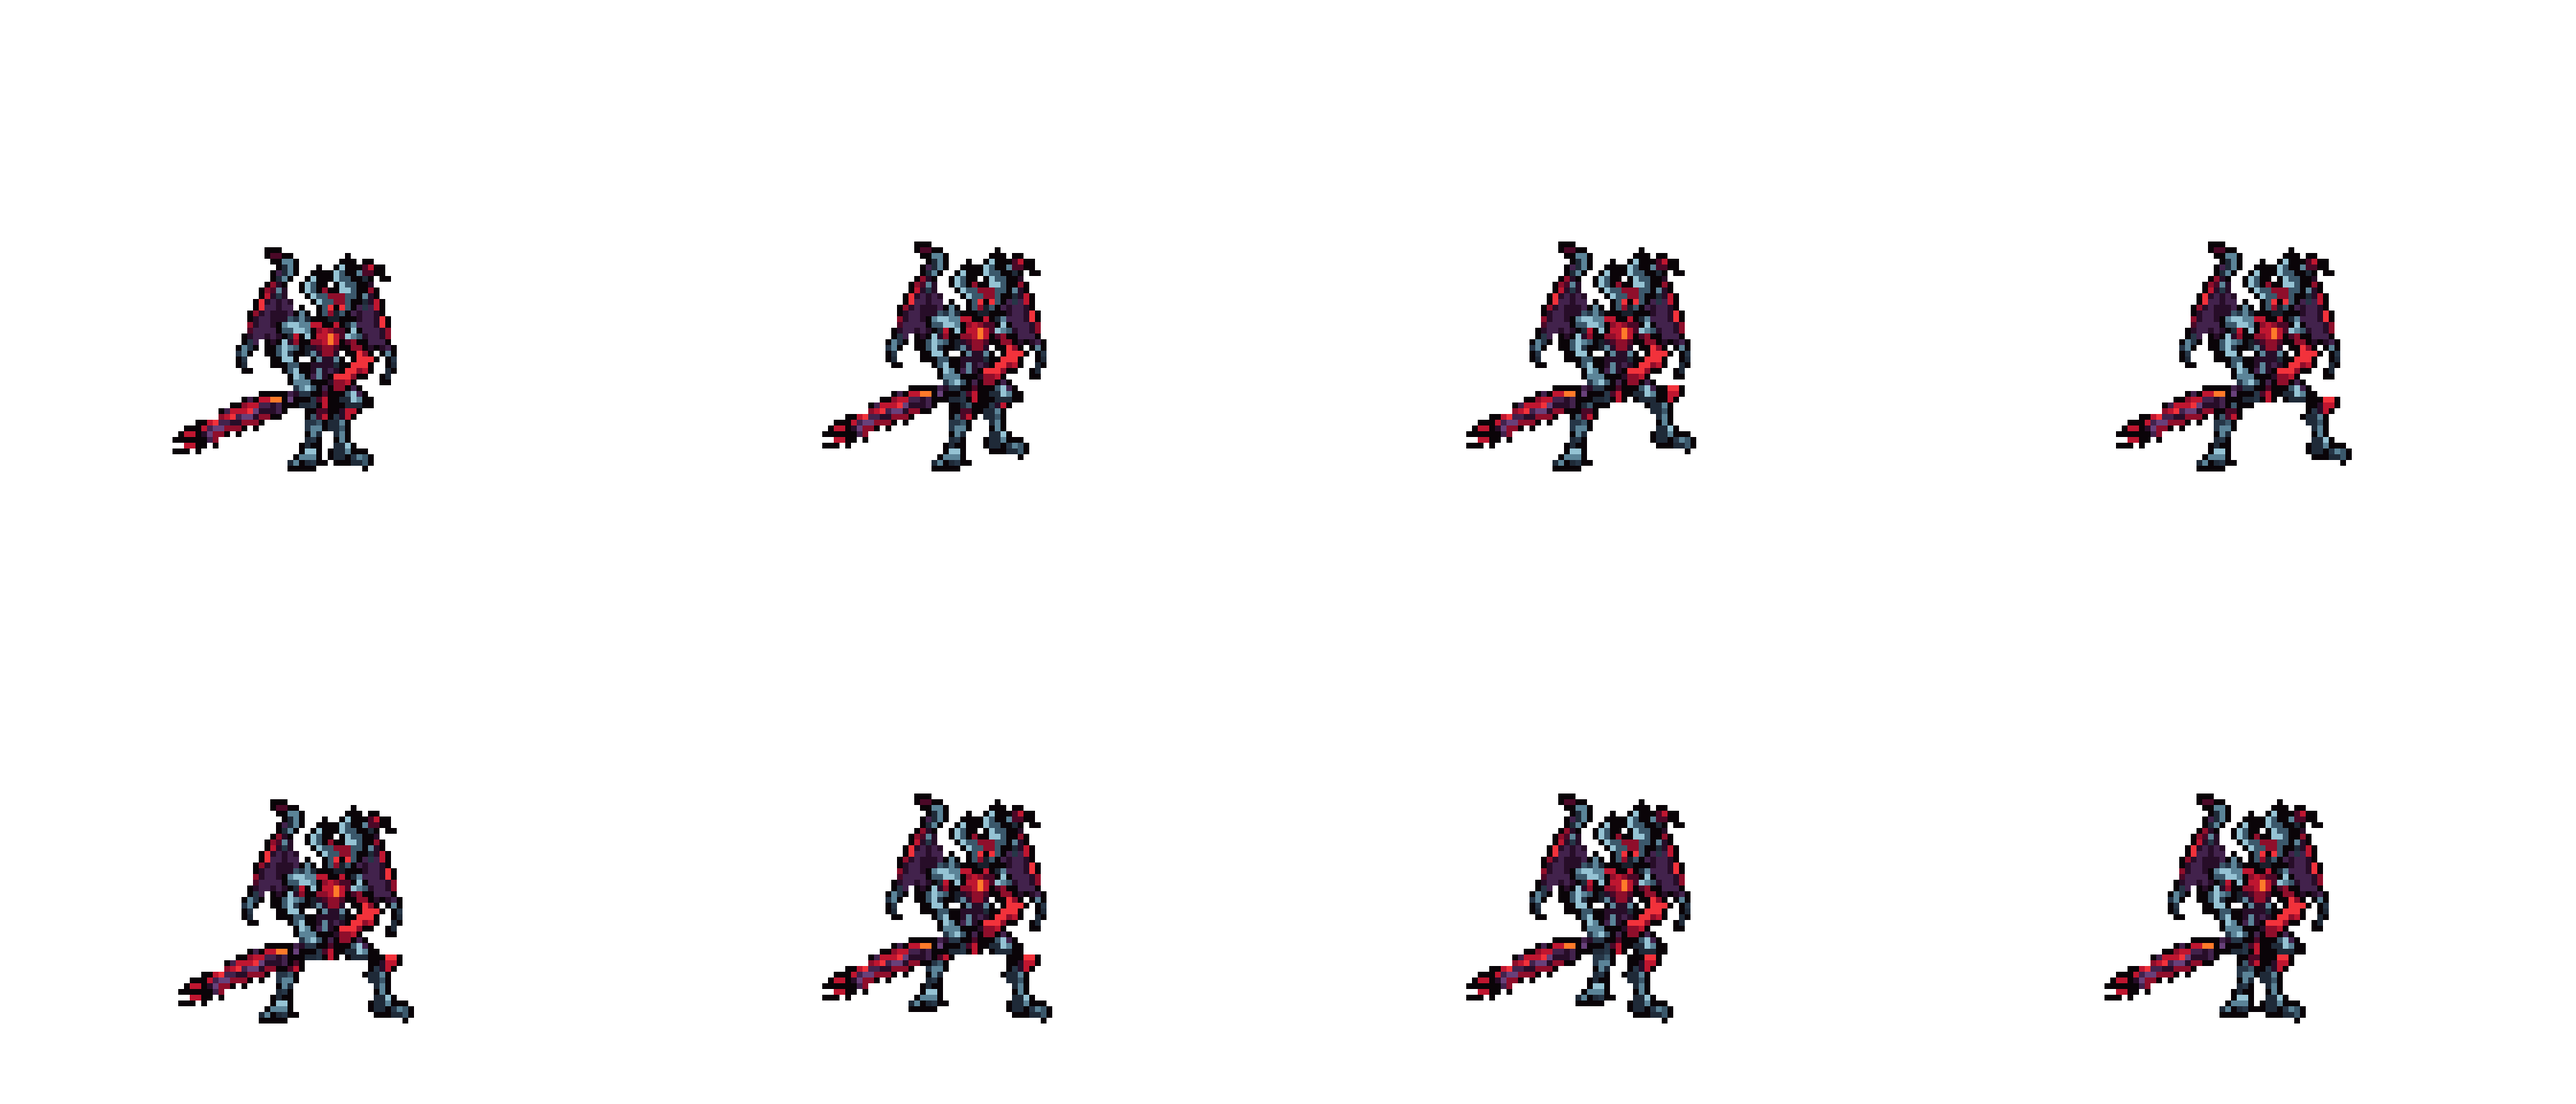
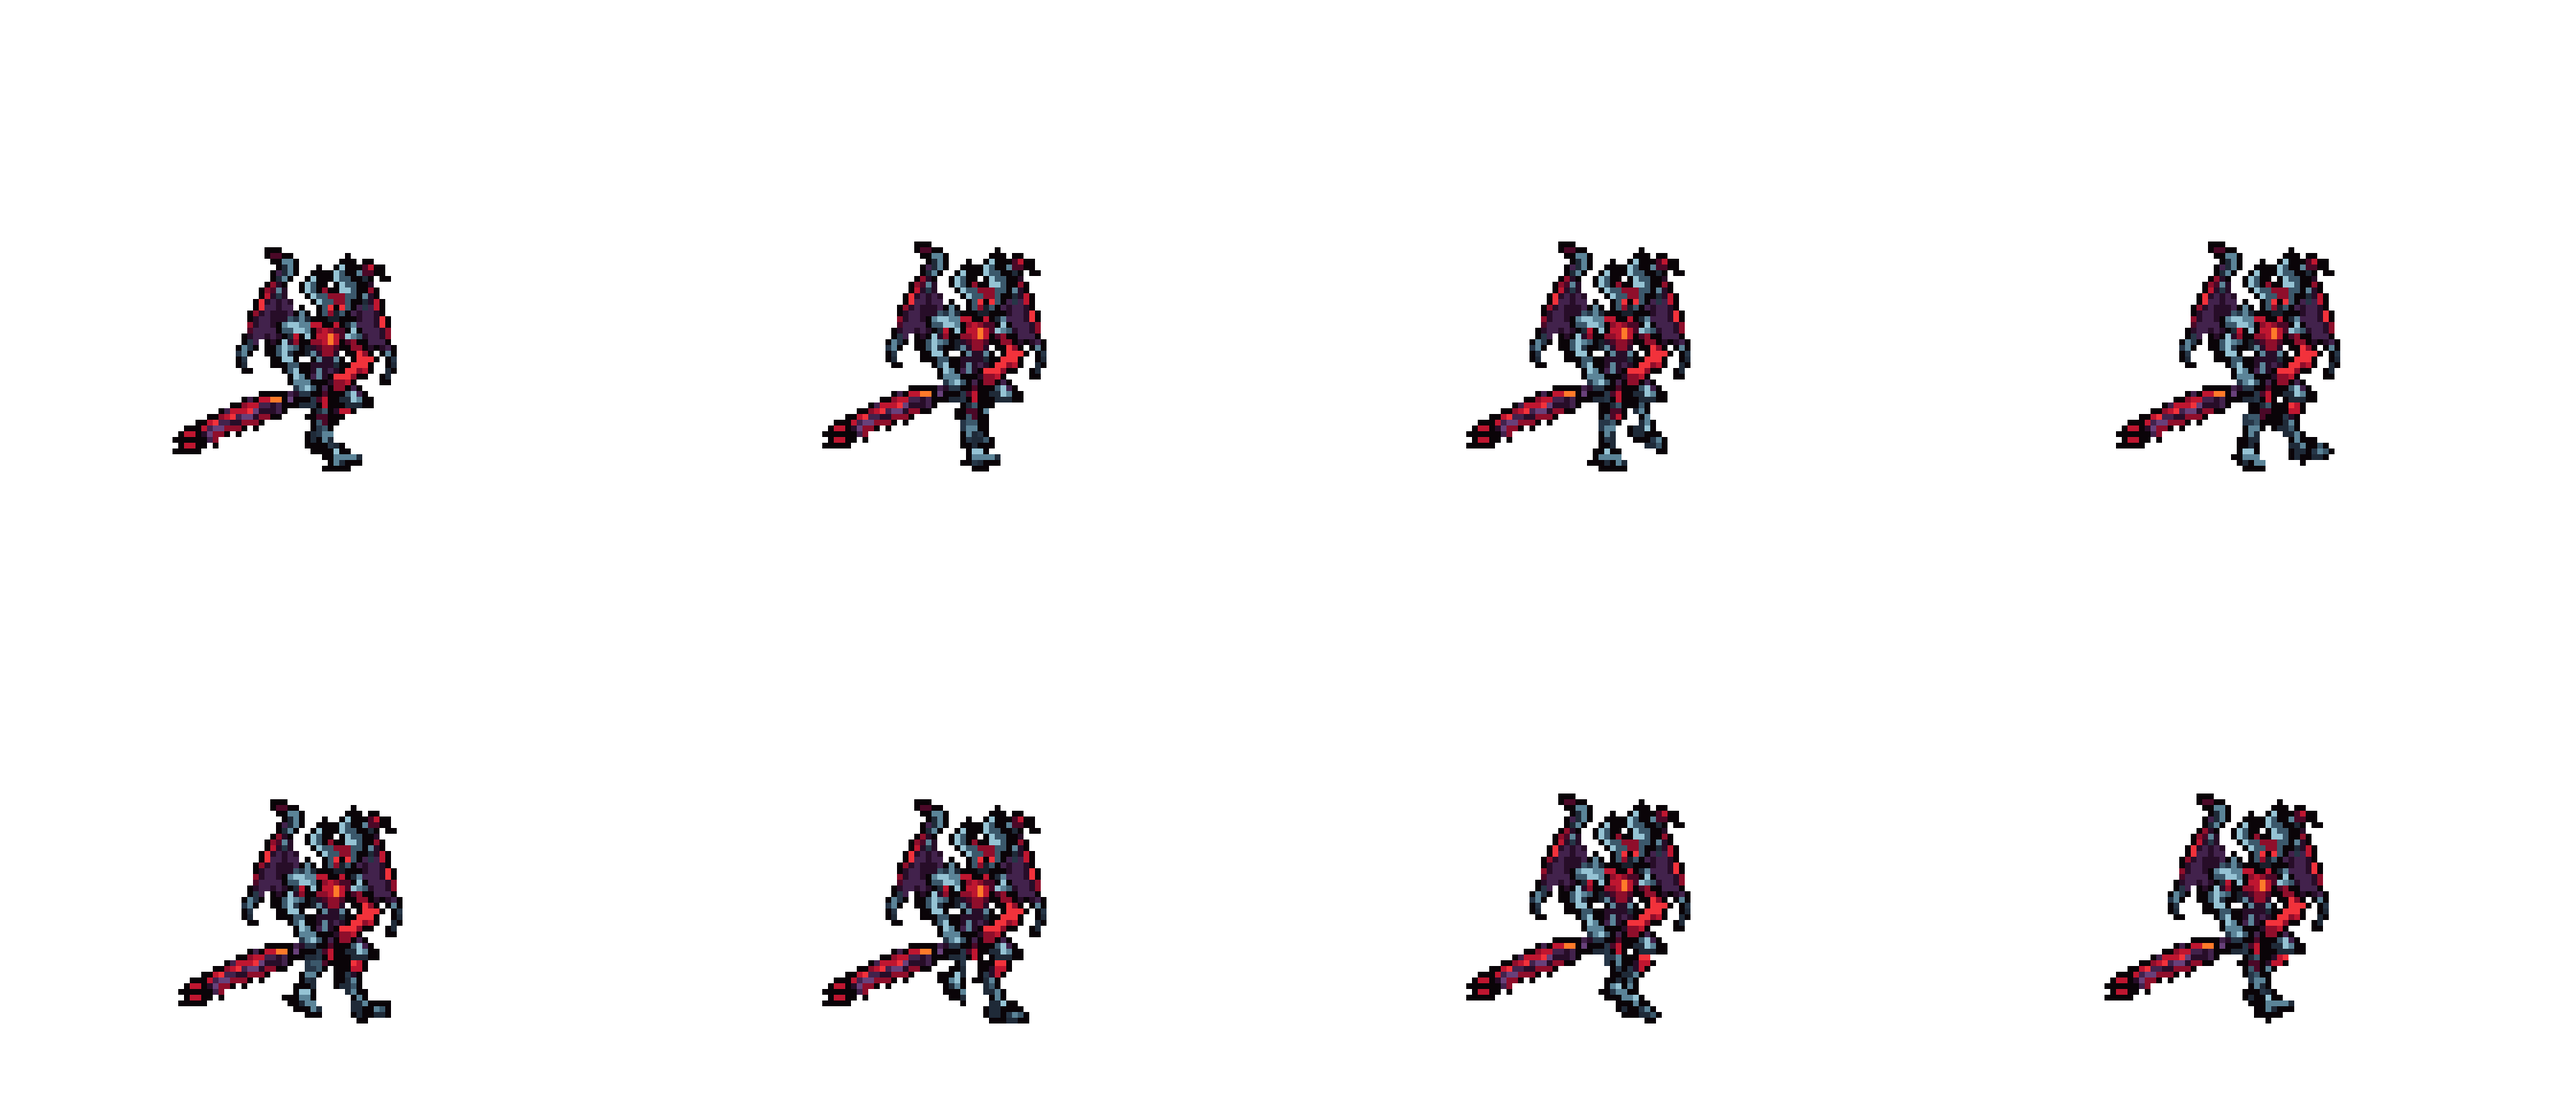
Aatrox: run v7 - the idle's own legs swung about the hips
The idle's legs slid whole on the ground (v6) were 「你觉得对吗？ 不自然啊」: no
swing, no knee. Each leg, every square as drawn, is now turned about its hip
by RotSprite (a forward leg lands heel first, a back one leaves on the toe),
lifted while it swings and bent a little at the knee when lifted 2+ rows;
the hips come 3 squares in under the waist so the near leg crosses in front
of the far one (an X in frames 8 and 1, at most ~12 squares apart in 4-5);
the near boot is mirrored so its toe points forward; the body drops a row
when the planted leg slants. The blade's outline squares under the hips stay.

diff --git a/tools/art/rig_aatrox.py b/tools/art/rig_aatrox.py
@@ -20,8 +20,9 @@ legs, the arms were drawn as tubes and the ult's wings as flat polygons. The use
   behind each for the spread membrane (WINGS).
 - the death: the whole design turned by RotSprite (staggering back), then a quarter (lying on his back, face up), the
   blade on the ground beside him.
-- the run: the idle's own two legs, every square as drawn, moved whole - the planted one sliding back on the soles'
-  row, the swinging one lifted and carried forward, half a cycle apart; the body a row lower on the contacts.
+- the run: the idle's own two legs, every square as drawn, turned about the hips by RotSprite - the planted one from
+  ahead to behind, the swinging one lifted and bent at the knee on its way forward - the hips in under the waist so the
+  near leg passes in front of the far one; the body a row lower when the planted leg slants.
 --check compares the strips with assets/source/native/.
 """
 import argparse
@@ -85,19 +86,23 @@ FAR_ROOT = (69, 75)                  # where the drawn wings join the back (behi
 NEAR_ROOT = (58, 75)
 # the run (8 frames, 2026-10-04): every leg I drew was turned down - the whole-leg shear slid the knee plate off the shin
 # as it played (「是膝盖那和下面的小腿 走路的时候感觉脱节的」), legs from close hips read as a skirt under the wide waist
-# (「怎么看起来剑魔像穿了裙子？？」), two-bone legs on League's joints were 「不自然」, Codex's redraw lost to them - and
-# then the user: 「你把待机的腿用到走路啊」. So each of the idle's legs is moved whole: in its four planted frames it
-# slides from RUN_AMP ahead of its idle place to RUN_AMP behind on the soles' row, in its four swinging frames it goes
-# back to ahead lifted RUN_LIFT rows; the dark leg half a cycle after the lit one, the lit one drawn over it (they meet
-# in frames 1 and 8); the body (over the legs' tops) a row lower on the contacts (RUN_BOB).
-RUN_AMP = 3
-RUN_LIFT = [0, 2, 3, 1]
-RUN_PLANT = [1.0, 0.5, -0.5, -1.0]
-RUN_SWING = [-1.0, -0.5, 0.5, 1.0]
-RUN_BOB = [1, 0, 0, 0, 1, 0, 0, 0]
+# (「怎么看起来剑魔像穿了裙子？？」), two-bone legs on League's joints were 「不自然」, Codex's redraw lost to them; then
+# 「你把待机的腿用到走路啊」, and the idle's legs slid whole on the ground were 「你觉得对吗？ 不自然啊」 (no swing, no
+# knee). Now each of the idle's legs, every square as drawn, is TURNED about its hip by RotSprite (RUN: degrees, + = the
+# foot ahead - a forward leg lands heel first, a back one leaves on the toe) and lifted RUN rows off the ground while it
+# swings, bent at the knee when lifted 2+ rows (RUN_BEND: the thigh and the shin + boot turned apart, cut at KNEE_ROW);
+# the hips come RUN_HIP_IN in under the waist so the feet cross (the near leg in front of the far one in an X in frames 8
+# and 1; spread at most ~12 squares in 4-5); the near boot is mirrored about its knee so its toe points forward like the
+# far one's; the body drops a row when the planted leg's slant shortens it.
+RUN = [[24, 0, -32, 1], [12, 0, -22, 3], [-4, 0, 6, 3], [-14, 0, 18, 1],    # [near deg, near lift, far deg, far lift]
+       [-22, 1, 16, 0], [-12, 3, 6, 0], [8, 3, -8, 0], [24, 1, -24, 0]]
+RUN_HIP_IN = 3
+RUN_BEND = (10, 25)
 LEG_TOP = 88                         # the legs below this row move; the hips and the skirt above stay
-NEAR_COLS = (48, 64)                 # the lit (left) leg's columns, the dark (right) leg's
-FAR_COLS = (64, 80)
+KNEE_ROW = 94                        # the shin + boot from this row down
+# the idle's legs (canvas squares): their columns, hips and knees; the lit (near) one's boot is mirrored about its knee
+NEAR_LEG = {"cols": (52, 64), "hip": (59.0, 88.0), "knee": (58.0, 93.5)}
+FAR_LEG = {"cols": (64, 76), "hip": (69.0, 88.0), "knee": (69.0, 93.5)}
 DEAD = [(0, 0), (0.15, 0), (0.4, 1), ("rot", 0), ("rot", 0), ("rot", 0), ("rot", 0), ("rot", 0)]
 
 
@@ -428,28 +433,68 @@ def frame(tag, i, des, sm):
     raise ValueError(tag)
 
 
-def leg(des, sm, cols):
-    """One of the design's legs below LEG_TOP (the blade's squares left with the body)."""
-    part = np.zeros_like(des)
-    part[LEG_TOP:, cols[0]:cols[1]] = des[LEG_TOP:, cols[0]:cols[1]]
-    part[sm] = 0
-    return part
+def turn(sprite, joint, deg):
+    """RotSprite about joint (+ = counter-clockwise on screen: a hanging part swings ahead): (sprite, joint in it)."""
+    if abs(deg) < 0.5:
+        return sprite, joint
+    r, (jx, jy) = rotsprite(sprite, joint, deg)
+    return r, (jx + (joint[0] - round(joint[0])), jy + (joint[1] - round(joint[1])))
+
+
+def leg_pieces(des, sm, L, mirror=False):
+    """One of the idle's legs cut at the knee: (thigh, shin + boot, whole leg), the blade's squares left out; the shin +
+    boot mirrored about the knee's column when `mirror` (the toe forward)."""
+    c0, c1 = L["cols"]
+    thigh, shin = np.zeros_like(des), np.zeros_like(des)
+    thigh[LEG_TOP:KNEE_ROW, c0:c1] = des[LEG_TOP:KNEE_ROW, c0:c1]
+    shin[KNEE_ROW:, c0:c1] = des[KNEE_ROW:, c0:c1]
+    thigh[sm] = 0
+    shin[sm] = 0
+    if mirror:
+        ys, xs = np.nonzero(shin[..., 3])
+        m = np.zeros_like(shin)
+        m[ys, np.round(2 * L["knee"][0] - xs).astype(int)] = shin[ys, xs]
+        shin = m
+    return thigh, shin, over(thigh.copy(), shin)
+
+
+def run_leg(pieces, L, deg, lift, hip_at):
+    """A leg turned deg about its hip, bent RUN_BEND at the knee when lifted 2+ rows."""
+    thigh, shin, whole = pieces
+    out = np.zeros((128, 128, 4), np.uint8)
+    if lift >= 2:
+        th, sh = deg + RUN_BEND[0], deg - RUN_BEND[1]
+        t = math.radians(th)
+        vx, vy = L["knee"][0] - L["hip"][0], L["knee"][1] - L["hip"][1]
+        knee = (hip_at[0] + vx * math.cos(t) + vy * math.sin(t), hip_at[1] - vx * math.sin(t) + vy * math.cos(t))
+        parts = ((shin, L["knee"], sh, knee), (thigh, L["hip"], th, hip_at))
+    else:
+        parts = ((whole, L["hip"], deg, hip_at),)
+    for piece, joint, d, at in parts:
+        s, j = turn(piece, joint, d)
+        over(out, s, int(round(at[0] - j[0])), int(round(at[1] - j[1])))
+    return out
 
 
 def run(i, des, sm):
-    """The idle's legs moved whole (RUN_PLANT / RUN_SWING / RUN_LIFT), the upper body, the arms holding the blade, the
-    wings and the head the design's own, RUN_BOB rows lower."""
+    """The idle's legs turned about the hips (RUN), each with its lowest square `lift` rows over the soles' row; the
+    upper body - head, wings, arms, the blade - the design's own, a row lower when a planted leg's slant shortens it."""
     upper = des.copy()
-    upper[LEG_TOP:] = 0
+    upper[LEG_TOP:, NEAR_LEG["cols"][0]:FAR_LEG["cols"][1]] = 0
     upper[sm] = des[sm]                                   # the blade hangs below the hips with the fist
+    na, nl, fa, fl = RUN[i]
+    legs, drop = [], 0
+    for L, deg, lift, near in ((FAR_LEG, fa, fl, False), (NEAR_LEG, na, nl, True)):
+        hip = (L["hip"][0] + (RUN_HIP_IN if near else -RUN_HIP_IN), L["hip"][1])
+        a = run_leg(leg_pieces(des, sm, L, mirror=near), L, deg, lift, hip)
+        low = int(np.nonzero(a[..., 3].any(1))[0].max())
+        if not lift:
+            drop = max(drop, min(1, 99 - low))
+        legs.append(np.roll(a, 99 - lift - low, 0))
     out = np.zeros_like(des)
-    for part, ph in ((leg(des, sm, FAR_COLS), (i + 4) % 8), (leg(des, sm, NEAR_COLS), i)):
-        if ph < 4:
-            dx, lift = RUN_AMP * RUN_PLANT[ph], 0
-        else:
-            dx, lift = RUN_AMP * RUN_SWING[ph - 4], RUN_LIFT[ph - 4]
-        over(out, part, int(round(dx)), -lift)
-    return over(out, upper, 0, RUN_BOB[i])
+    for a in legs:                                        # the near leg over the far one
+        over(out, a)
+    return over(out, upper, 0, drop)
 
 
 def sheared(a, k, sink=0):
